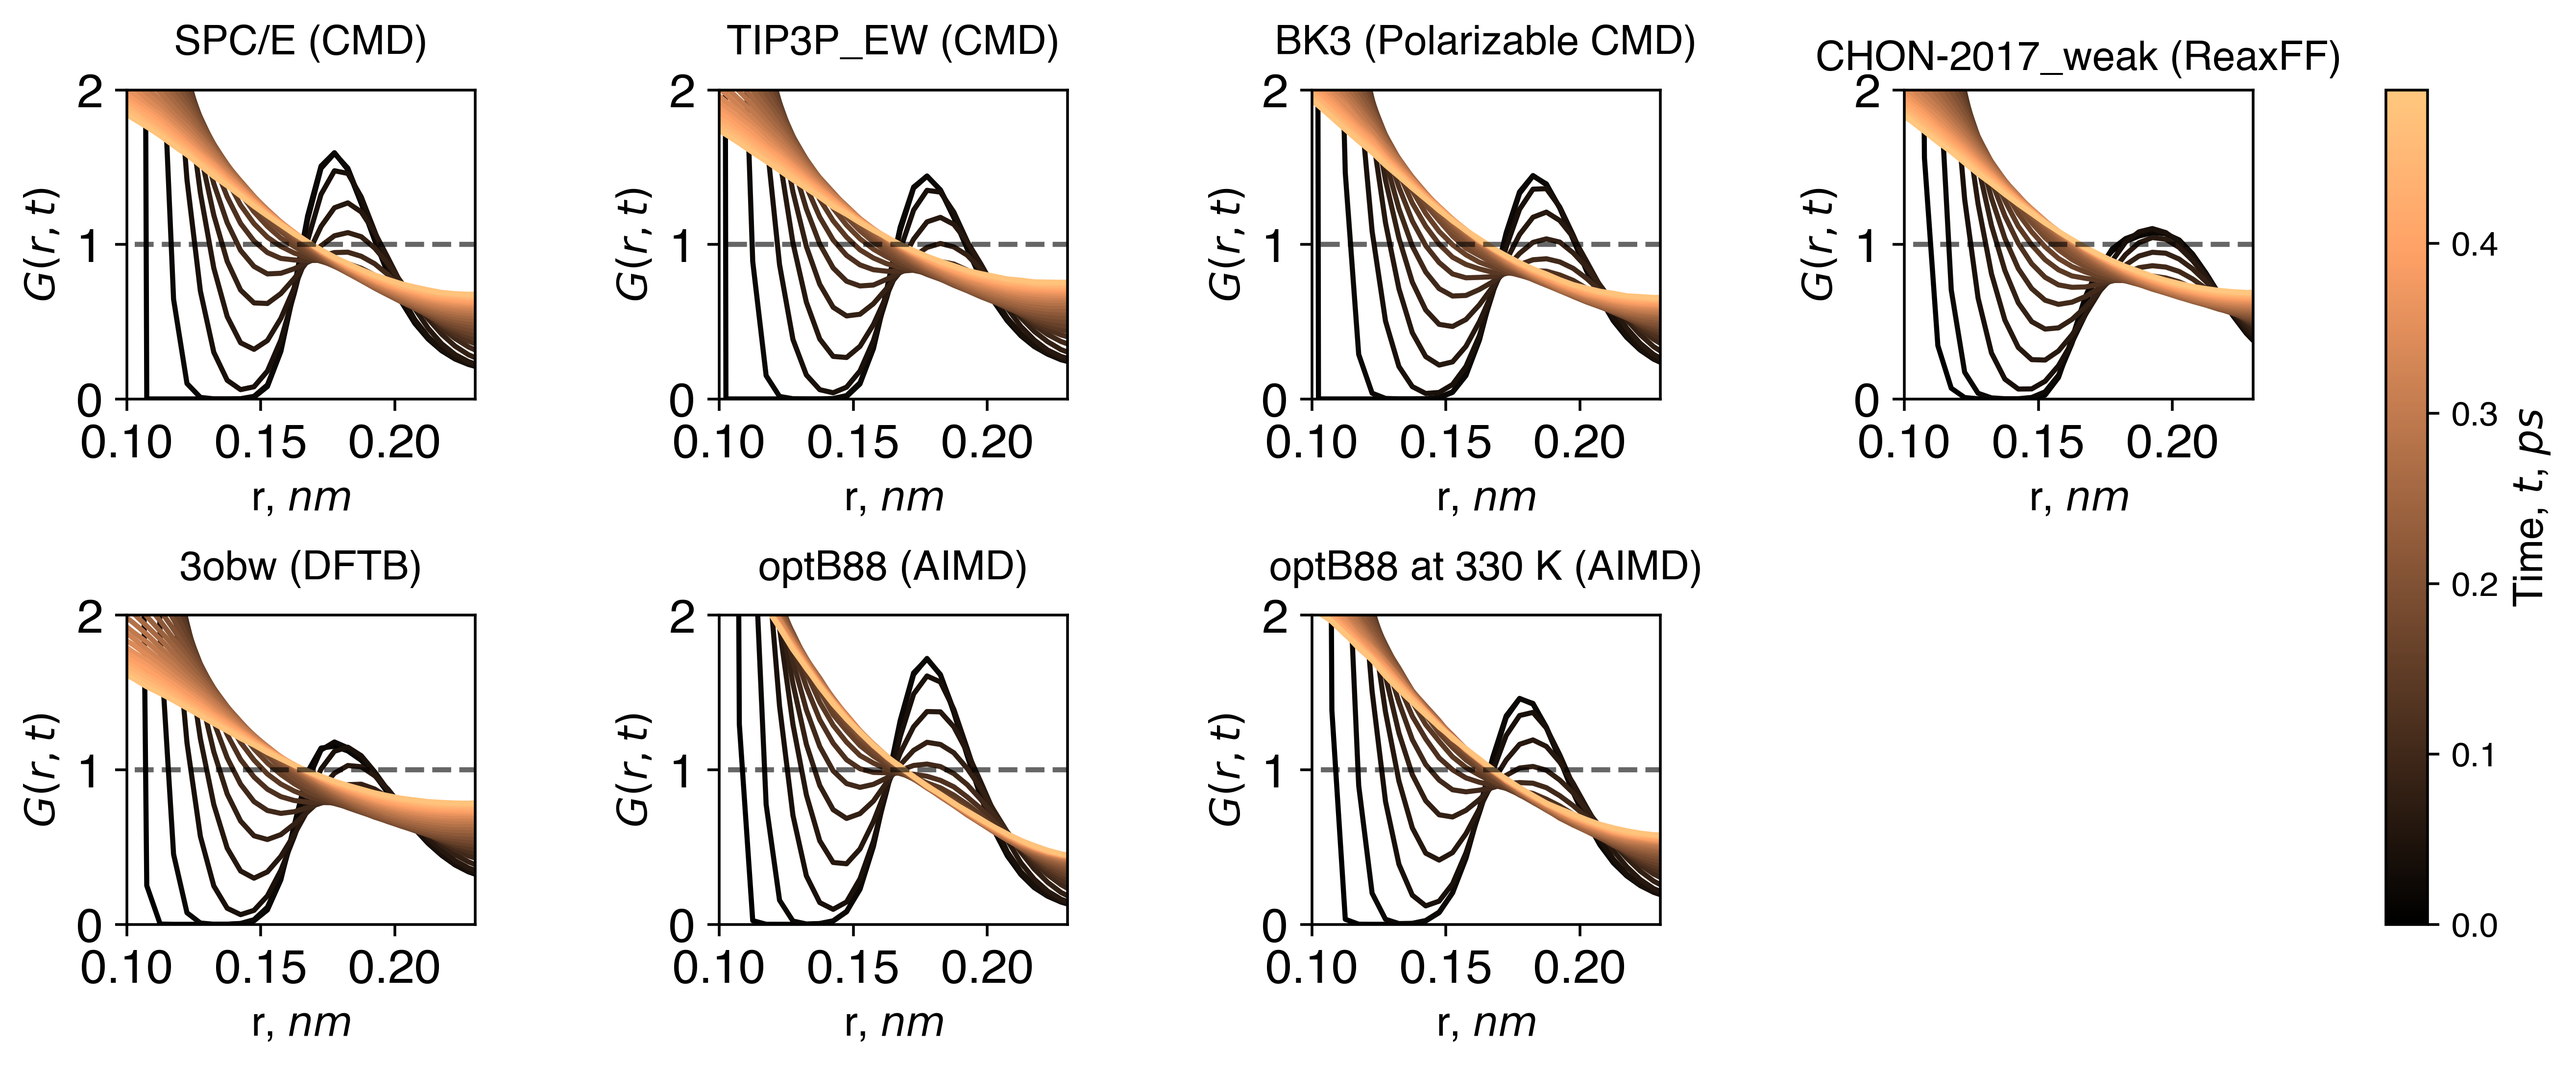
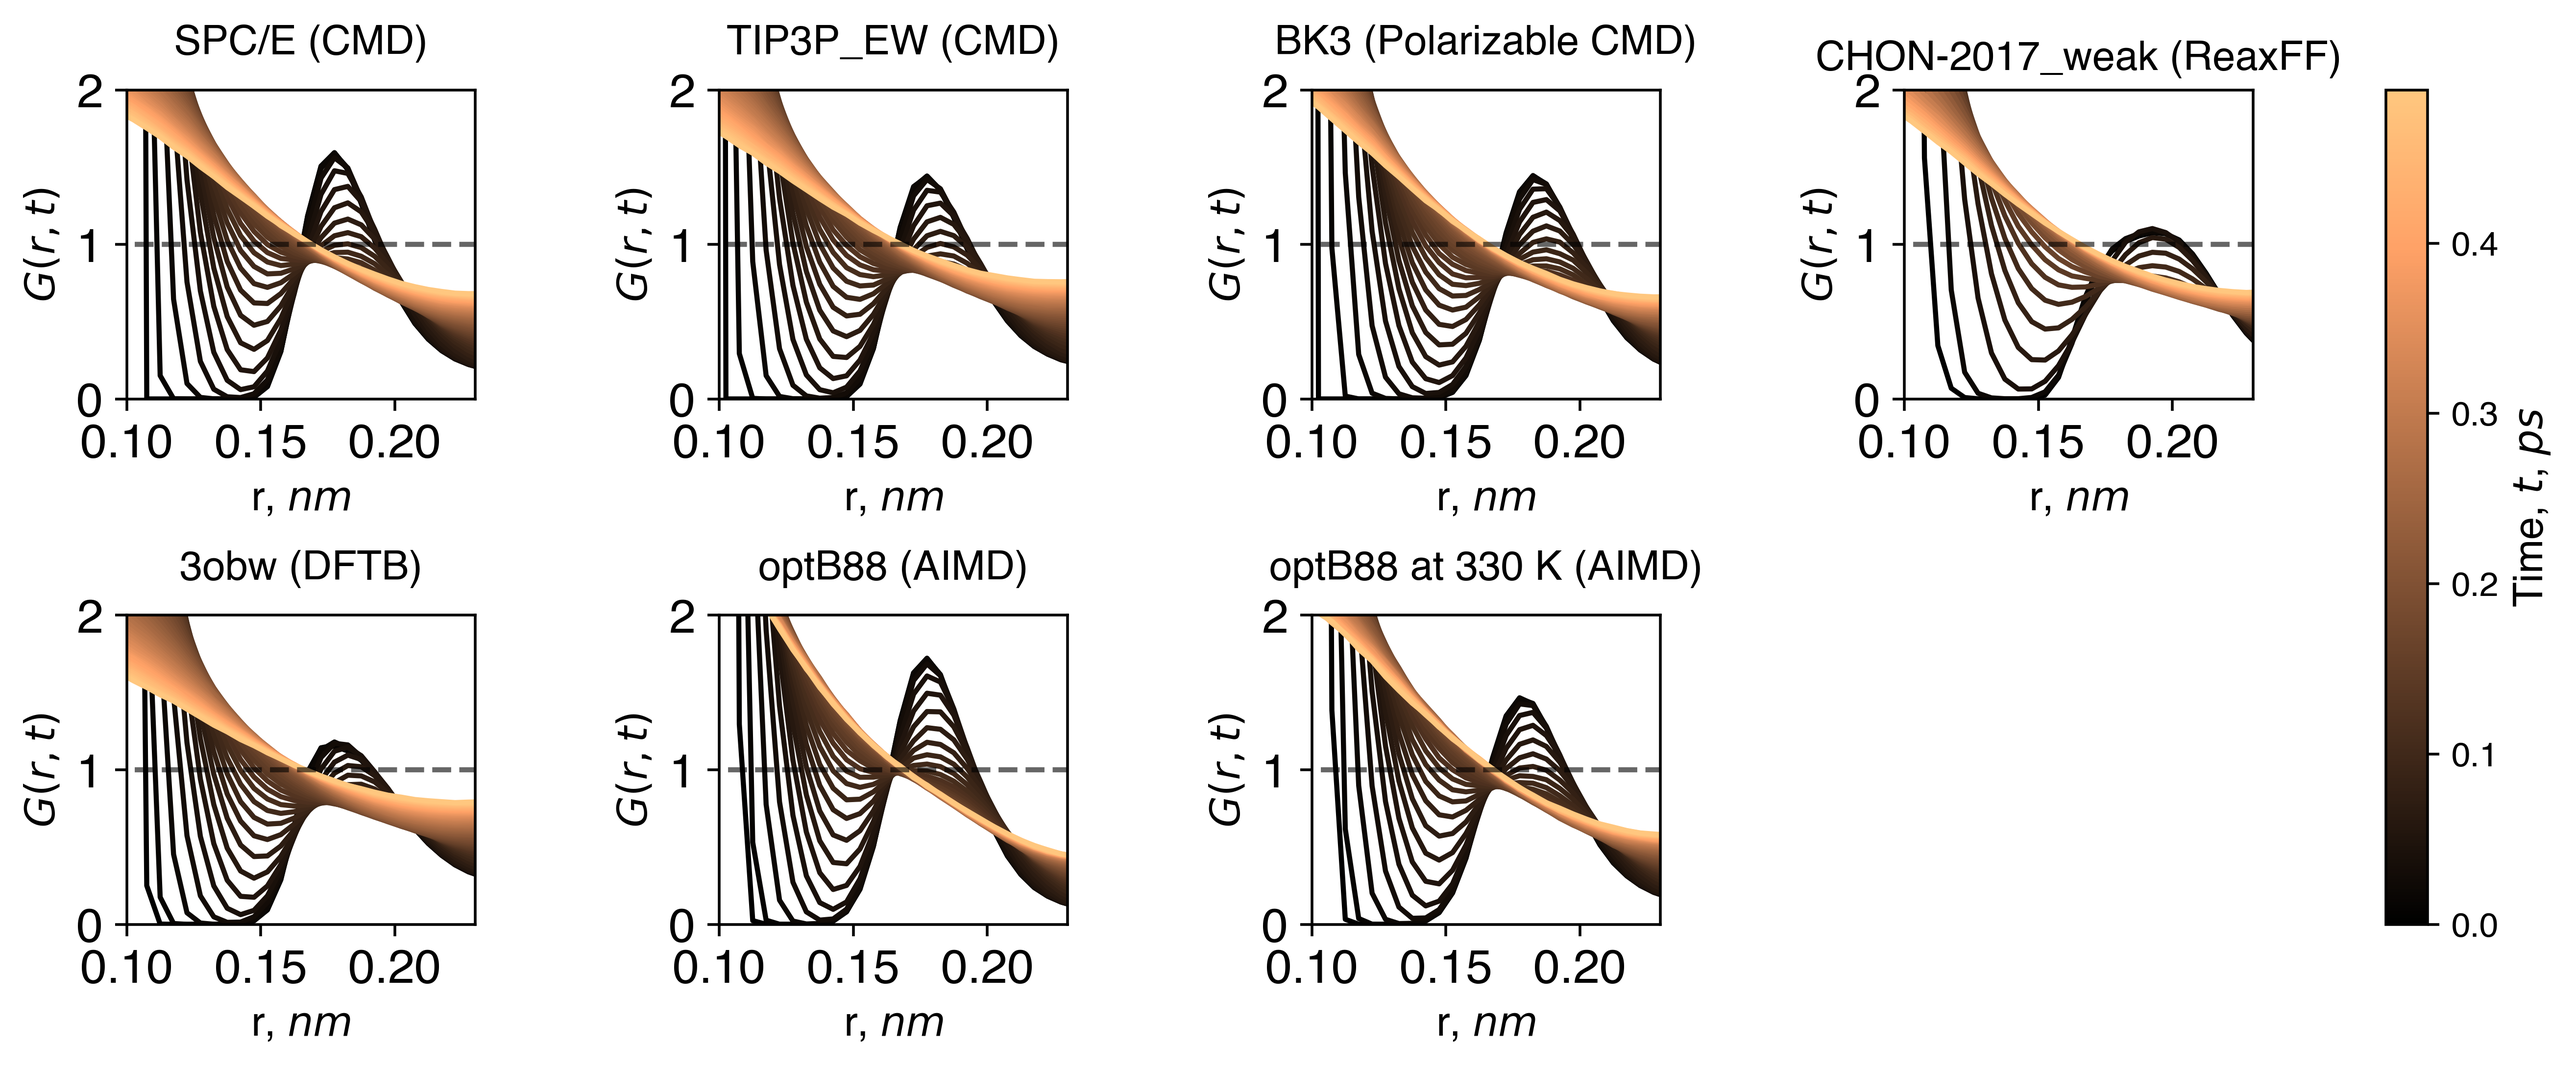
Plot all available frames on hbond oh peak plot

diff --git a/water_vhf_analysis/analysis/plot_partials.py b/water_vhf_analysis/analysis/plot_partials.py
@@ -315,9 +315,7 @@ def plot_oh_peak(datas, filename, ylim=(0, 3), plot_max=False):
         r_range = data["r"][r_low:r_high]
 
         if data["name"] == "CHON-2017_weak (ReaxFF)":
-            print(data["name"])
             for frame in range(len(data["t"][:25])):
-                print(data["t"][frame])
                 g_range = data["g"][frame][r_low:r_high]
                 max_r, max_g = find_local_maxima(r_range, g_range, r_guess=0.18)
                 ax.plot(
@@ -332,10 +330,8 @@ def plot_oh_peak(datas, filename, ylim=(0, 3), plot_max=False):
                 vmin=data["t"][0], vmax=data["t"][:25][-1]
             )
         else:
-            print(data["name"])
             t_max = 50
-            for frame in range(0, len(data["t"][:t_max]), 2):
-                print(data["t"][frame])
+            for frame in range(0, len(data["t"][:t_max])):
                 # Test to check where point is
                 g_range = data["g"][frame][r_low:r_high]
                 max_r, max_g = find_local_maxima(r_range, g_range, r_guess=0.18)
